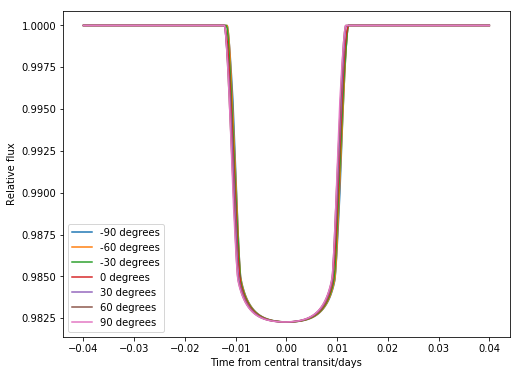
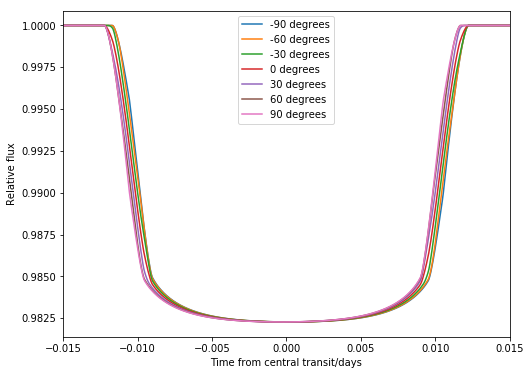
edit tutorial

Changed region(s): [[0.0, 0.0293, 0.8923, 0.9387], [0.3385, 0.9093, 0.8615, 0.9973], [0.9231, 0.0293, 0.9846, 0.9387]]

diff --git a/docs/_build/html/searchindex.js b/docs/_build/html/searchindex.js
@@ -1,1 +1,1 @@
-Search.setIndex({docnames:["index","installation","quickstart","tutorial"],envversion:{"sphinx.domains.c":1,"sphinx.domains.changeset":1,"sphinx.domains.cpp":1,"sphinx.domains.javascript":1,"sphinx.domains.math":2,"sphinx.domains.python":1,"sphinx.domains.rst":1,"sphinx.domains.std":1,"sphinx.ext.todo":1,sphinx:55},filenames:["index.rst","installation.rst","quickstart.rst","tutorial.rst"],objects:{},objnames:{},objtypes:{},terms:{"1ppm":3,"\u03c6":2,"default":3,"function":[0,2],"import":[2,3],"new":[2,3],"try":2,For:[2,3],The:[2,3],Then:2,There:2,again:2,algorithm:0,align:3,all:3,allow:[0,3],also:3,altern:3,angl:[2,3],ani:[0,3],approri:3,arrai:[2,3],asymmetr:2,automat:3,avail:[],axi:[2,3],batman:[0,2,3],begin:3,between:[2,3],bottom:[2,3],c_1:3,c_2:3,c_3:3,c_4:3,calcul:[0,2],can:[1,2,3],catwoman:[1,2,3],centr:3,central:[2,3],certain:3,chang:[2,3],choos:3,circl:[0,2,3],cite:0,clearli:2,coeffici:[2,3],conjuct:[2,3],constant:3,content:0,coordin:3,curv:[0,2],custom:3,dai:[2,3],darken:[0,2],darkenig:[],defin:[2,3],degre:[2,3],describ:3,detail:[2,3],develop:0,differ:[0,2,3],doe:3,easi:3,easili:[2,3],ecc:[2,3],eccentr:[2,3],end:3,error:0,even:0,exampl:3,exp:3,explain:[2,3],explan:2,exponenti:3,extens:0,featur:3,find:3,first:2,flux2:[2,3],flux:[2,3],follow:[2,3],from:[2,3],full:2,gener:0,given:3,has:3,have:3,here:2,how:2,howev:3,i_0:3,i_o:3,inc:[2,3],inclin:[2,3],index:0,inferior:[2,3],initalis:2,initialis:[0,2],input:[2,3],instal:0,integr:[0,3],intens:3,interest:3,label:3,larger:2,law:[0,2,3],left:3,len:3,leq:3,let:2,light:[0,2],light_curv:[2,3],lightcurv:0,like:[2,3],limb:[0,2],limb_dark:[2,3],linear:3,linspac:[2,3],logarithm:3,longer:3,longitud:[2,3],loop:3,lower:3,major:[2,3],make:[2,3],mani:3,matplotlib:[2,3],max_err:3,mod:3,model:[0,2],modul:0,more:2,morn:0,need:[2,3],next:2,nonlinear:3,normalis:3,note:[2,3],now:[2,3],numer:3,numpi:[2,3],object:[2,3],one:[2,3],orbit:[2,3],order:3,orient:2,other:2,output:2,over:3,packag:[0,2],page:0,paper:0,param:[2,3],paramet:[2,3],per:[2,3],periastron:[2,3],period:[2,3],phi:[2,3],phi_rang:[],pip:0,planet:[0,2,3],pleas:0,plot:[2,3],plt:[2,3],possibl:2,power2:3,ppm:[2,3],pre:3,procedur:2,pyplot:2,python:0,quadrat:[2,3],quickli:[2,3],quickstart:[0,3],radial:[0,3],radii:[0,2,3],radiu:[2,3],rang:3,recommend:1,redefin:3,reinitialis:3,rel:[2,3],repeat:3,res:2,research:0,residu:[2,3],result:2,right:3,root:3,rotat:[2,3],rp2:[2,3],run:[2,3],sai:3,search:0,see:2,select:3,semi:[0,2,3],separ:3,set:3,show:[2,3],shown:3,similar:2,simpli:[2,3],size:3,smaller:3,smallest:3,specifi:[2,3],sqrt:3,squar:3,star:3,start:3,stellar:[0,2,3],step:[2,3],store:[2,3],str:3,support:3,symmetr:[0,2],system:2,tab:2,take:3,termin:0,text:3,than:2,thei:2,thi:[2,3],time:[2,3],toler:0,top:[2,3],total:3,transit:[0,2,3],transitmodel:[2,3],transitparam:[2,3],tutori:[0,2],two:[0,3],uniform:3,unit:[2,3],uniti:3,updat:[2,3],use:0,using:[0,2],valu:3,varieti:3,view:2,want:[2,3],whenev:2,where:3,whole:3,without:3,xlabel:[2,3],ylabel:[2,3],you:[0,1,3],your:0,zero:3},titles:["Welcome to catwoman\u2019s documentation!","Installation","Quickstart","Tutorial"],titleterms:{"function":3,calcul:3,catwoman:0,curv:3,darken:3,document:0,error:3,indic:0,initialis:3,instal:1,light:3,limb:3,model:3,pip:1,quickstart:2,tabl:0,toler:3,tutori:3,welcom:0}})
+Search.setIndex({docnames:["index","installation","quickstart","tutorial"],envversion:{"sphinx.domains.c":1,"sphinx.domains.changeset":1,"sphinx.domains.cpp":1,"sphinx.domains.javascript":1,"sphinx.domains.math":2,"sphinx.domains.python":1,"sphinx.domains.rst":1,"sphinx.domains.std":1,"sphinx.ext.todo":1,sphinx:55},filenames:["index.rst","installation.rst","quickstart.rst","tutorial.rst"],objects:{},objnames:{},objtypes:{},terms:{"1ppm":3,"\u03c6":2,"default":3,"function":[0,2],"import":[2,3],"new":[2,3],"try":2,For:[2,3],The:[2,3],Then:2,There:2,again:2,algorithm:0,align:3,all:3,allow:[0,3],also:3,altern:3,angl:[2,3],ani:[0,3],approri:3,arrai:[2,3],asymmetr:2,automat:3,avail:[],axi:[2,3],batman:[0,2,3],begin:3,between:[2,3],bottom:[2,3],c_1:3,c_2:3,c_3:3,c_4:3,calcul:[0,2],can:[1,2,3],catwoman:[1,2,3],centr:3,central:[2,3],certain:3,chang:[2,3],choos:3,circl:[0,2,3],cite:0,clearli:2,coeffici:[2,3],conjuct:[2,3],constant:3,content:0,coordin:3,curv:[0,2],custom:3,dai:[2,3],darken:[0,2],darkenig:[],defin:[2,3],degre:[2,3],describ:3,detail:[2,3],develop:0,differ:[0,2,3],doe:3,easi:3,easili:[2,3],ecc:[2,3],eccentr:[2,3],end:3,error:0,even:0,exampl:3,exp:3,explain:[2,3],explan:2,exponenti:3,extens:0,featur:3,find:3,first:2,flux2:[2,3],flux:[2,3],follow:[2,3],from:[2,3],full:2,gener:0,given:3,has:3,have:3,here:2,how:2,howev:3,i_0:3,i_o:3,inc:[2,3],inclin:[2,3],index:0,inferior:[2,3],initalis:2,initialis:[0,2],input:[2,3],instal:0,integr:[0,3],intens:3,interest:3,label:3,larger:2,law:[0,2,3],left:3,legend:3,len:3,leq:3,let:2,light:[0,2],light_curv:[2,3],lightcurv:0,like:[2,3],limb:[0,2],limb_dark:[2,3],linear:3,linspac:[2,3],logarithm:3,longer:3,longitud:[2,3],loop:3,lower:3,major:[2,3],make:[2,3],mani:3,matplotlib:[2,3],max_err:3,mod:3,model:[0,2],modul:0,more:2,morn:0,need:[2,3],next:2,nonlinear:3,normalis:3,note:[2,3],now:[2,3],numer:3,numpi:[2,3],object:[2,3],one:[2,3],orbit:[2,3],order:3,orient:2,other:2,output:2,over:3,packag:[0,2],page:0,paper:0,param:[2,3],paramet:[2,3],per:[2,3],periastron:[2,3],period:[2,3],phi:[2,3],phi_rang:[],pip:0,planet:[0,2,3],pleas:0,plot:[2,3],plt:[2,3],possibl:2,power2:3,ppm:[2,3],pre:3,procedur:2,pyplot:2,python:0,quadrat:[2,3],quickli:[2,3],quickstart:[0,3],radial:[0,3],radii:[0,2,3],radiu:[2,3],rang:3,recommend:1,redefin:3,reinitialis:3,rel:[2,3],repeat:3,res:2,research:0,residu:[2,3],result:2,right:3,root:3,rotat:[2,3],rp2:[2,3],run:[2,3],sai:3,search:0,see:2,select:3,semi:[0,2,3],separ:3,set:3,show:[2,3],shown:3,similar:2,simpli:[2,3],size:3,smaller:3,smallest:3,specifi:[2,3],sqrt:3,squar:3,star:3,start:3,stellar:[0,2,3],step:[2,3],store:[2,3],str:3,support:3,symmetr:[0,2],system:2,tab:2,take:3,termin:0,text:3,than:2,thei:2,thi:[2,3],time:[2,3],toler:0,top:[2,3],total:3,transit:[0,2,3],transitmodel:[2,3],transitparam:[2,3],tutori:[0,2],two:[0,3],uniform:3,unit:[2,3],uniti:3,updat:[2,3],use:0,using:[0,2],valu:3,varieti:3,view:2,want:[2,3],whenev:2,where:3,whole:3,without:3,xlabel:[2,3],xlim:3,ylabel:[2,3],you:[0,1,3],your:0,zero:3},titles:["Welcome to catwoman\u2019s documentation!","Installation","Quickstart","Tutorial"],titleterms:{"function":3,calcul:3,catwoman:0,curv:3,darken:3,document:0,error:3,indic:0,initialis:3,instal:1,light:3,limb:3,model:3,pip:1,quickstart:2,tabl:0,toler:3,tutori:3,welcom:0}})

diff --git a/docs/_build/html/tutorial.html b/docs/_build/html/tutorial.html
@@ -148,14 +148,23 @@
 <span class="k">for</span> <span class="n">i</span> <span class="ow">in</span> <span class="nb">range</span><span class="p">(</span><span class="mi">0</span><span class="p">,</span><span class="mi">7</span><span class="p">):</span>
         <span class="n">params</span><span class="o">.</span><span class="n">phi</span> <span class="o">=</span> <span class="p">(</span><span class="n">i</span><span class="o">-</span><span class="mi">3</span><span class="p">)</span><span class="o">*</span><span class="mi">30</span>                   <span class="c1">#updates angle of rotation</span>
         <span class="n">flux</span><span class="p">[</span><span class="n">i</span><span class="p">]</span> <span class="o">=</span> <span class="n">model</span><span class="o">.</span><span class="n">light_curve</span><span class="p">(</span><span class="n">params</span><span class="p">)</span>     <span class="c1">#calculates light curve</span>
-        <span class="n">plt</span><span class="o">.</span><span class="n">plot</span><span class="p">(</span><span class="n">time</span><span class="p">,</span><span class="n">flux</span><span class="p">[</span><span class="n">i</span><span class="p">],</span><span class="n">label</span><span class="o">=</span><span class="nb">str</span><span class="p">((</span><span class="n">i</span><span class="o">-</span><span class="mi">3</span><span class="p">)</span><span class="o">*</span><span class="mi">30</span><span class="p">)</span><span class="o">+</span><span class="s1">&#39; degrees&#39;</span><span class="p">)</span>
+        <span class="n">plt</span><span class="o">.</span><span class="n">plot</span><span class="p">(</span><span class="n">time</span><span class="p">,</span><span class="n">flux</span><span class="p">[</span><span class="n">i</span><span class="p">],</span><span class="n">label</span><span class="o">=</span><span class="nb">str</span><span class="p">((</span><span class="n">i</span><span class="o">-</span><span class="mi">3</span><span class="p">)</span><span class="o">*</span><span class="mi">30</span><span class="p">)</span><span class="o">+</span><span class="s1">&#39;°&#39;</span><span class="p">)</span>
 <span class="n">plt</span><span class="o">.</span><span class="n">xlabel</span><span class="p">(</span><span class="s2">&quot;Time from central transit/days&quot;</span><span class="p">)</span>
 <span class="n">plt</span><span class="o">.</span><span class="n">ylabel</span><span class="p">(</span><span class="s2">&quot;Relative flux&quot;</span><span class="p">)</span>
+<span class="n">plt</span><span class="o">.</span><span class="n">xlim</span><span class="p">(</span><span class="o">-</span><span class="mf">0.015</span><span class="p">,</span> <span class="mf">0.015</span><span class="p">)</span>
 <span class="n">plt</span><span class="o">.</span><span class="n">show</span><span class="p">()</span>
 </pre></div>
 </div>
 <img alt="_images/tutorial_changephi.png" src="_images/tutorial_changephi.png" />
 <p>The residuals can also be easily plotted:</p>
+<div class="highlight-default notranslate"><div class="highlight"><pre><span></span><span class="k">for</span> <span class="n">i</span> <span class="ow">in</span> <span class="nb">range</span><span class="p">(</span><span class="mi">1</span><span class="p">,</span><span class="mi">7</span><span class="p">):</span>
+        <span class="n">plt</span><span class="o">.</span><span class="n">plot</span><span class="p">(</span><span class="n">t</span><span class="p">,</span><span class="n">flux</span><span class="p">[</span><span class="n">i</span><span class="p">]</span><span class="o">-</span><span class="n">flux</span><span class="p">[</span><span class="mi">0</span><span class="p">],</span><span class="n">label</span><span class="o">=</span><span class="nb">str</span><span class="p">((</span><span class="n">i</span><span class="o">-</span><span class="mi">3</span><span class="p">)</span><span class="o">*</span><span class="mi">30</span><span class="p">)</span><span class="o">+</span><span class="s1">&#39;° - 0°&#39;</span><span class="p">)</span>
+        <span class="n">plt</span><span class="o">.</span><span class="n">xlabel</span><span class="p">(</span><span class="s2">&quot;Time from central transit/days&quot;</span><span class="p">)</span>
+<span class="n">plt</span><span class="o">.</span><span class="n">ylabel</span><span class="p">(</span><span class="s2">&quot;Relative flux&quot;</span><span class="p">)</span>
+<span class="n">plt</span><span class="o">.</span><span class="n">legend</span><span class="p">()</span>
+<span class="n">plt</span><span class="o">.</span><span class="n">show</span><span class="p">()</span>
+</pre></div>
+</div>
 <img alt="_images/tutorial_phires.png" src="_images/tutorial_phires.png" />
 </div>
 <div class="section" id="limb-darkening-functions">

diff --git a/docs/tutorial.rst b/docs/tutorial.rst
@@ -88,14 +88,24 @@ This can make it easy to loop over certain parameter inputs and plot many light 
 	for i in range(0,7):
 		params.phi = (i-3)*30			#updates angle of rotation
 		flux[i] = model.light_curve(params)	#calculates light curve
-		plt.plot(time,flux[i],label=str((i-3)*30)+' degrees')
+		plt.plot(time,flux[i],label=str((i-3)*30)+'°')
 	plt.xlabel("Time from central transit/days")
 	plt.ylabel("Relative flux")
+	plt.xlim(-0.015, 0.015)
 	plt.show()
 
 .. image:: tutorial_changephi.png
 
 The residuals can also be easily plotted:
+::
+
+	for i in range(1,7):
+        	plt.plot(t,flux[i]-flux[0],label=str((i-3)*30)+'° - 0°')
+		plt.xlabel("Time from central transit/days")
+	plt.ylabel("Relative flux")
+	plt.legend()
+	plt.show()
+
 
 .. image:: tutorial_phires.png
 
